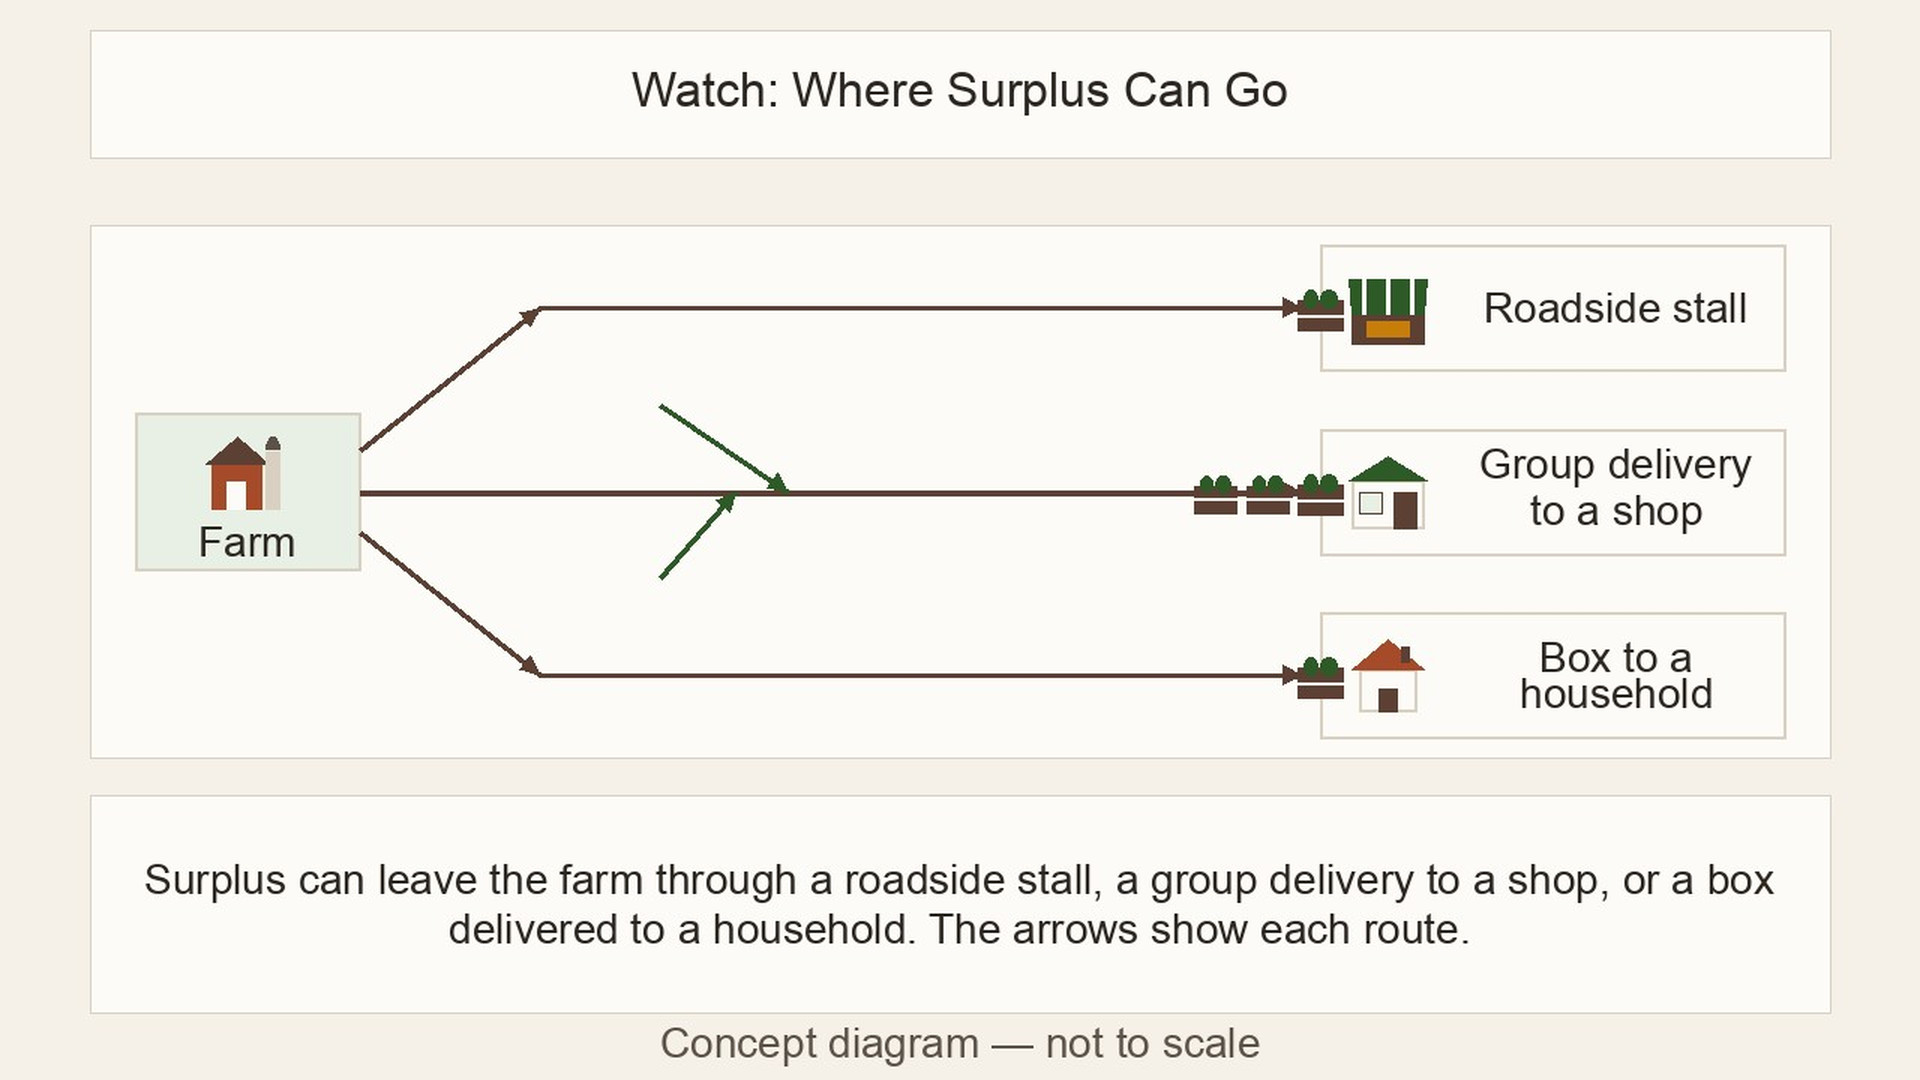
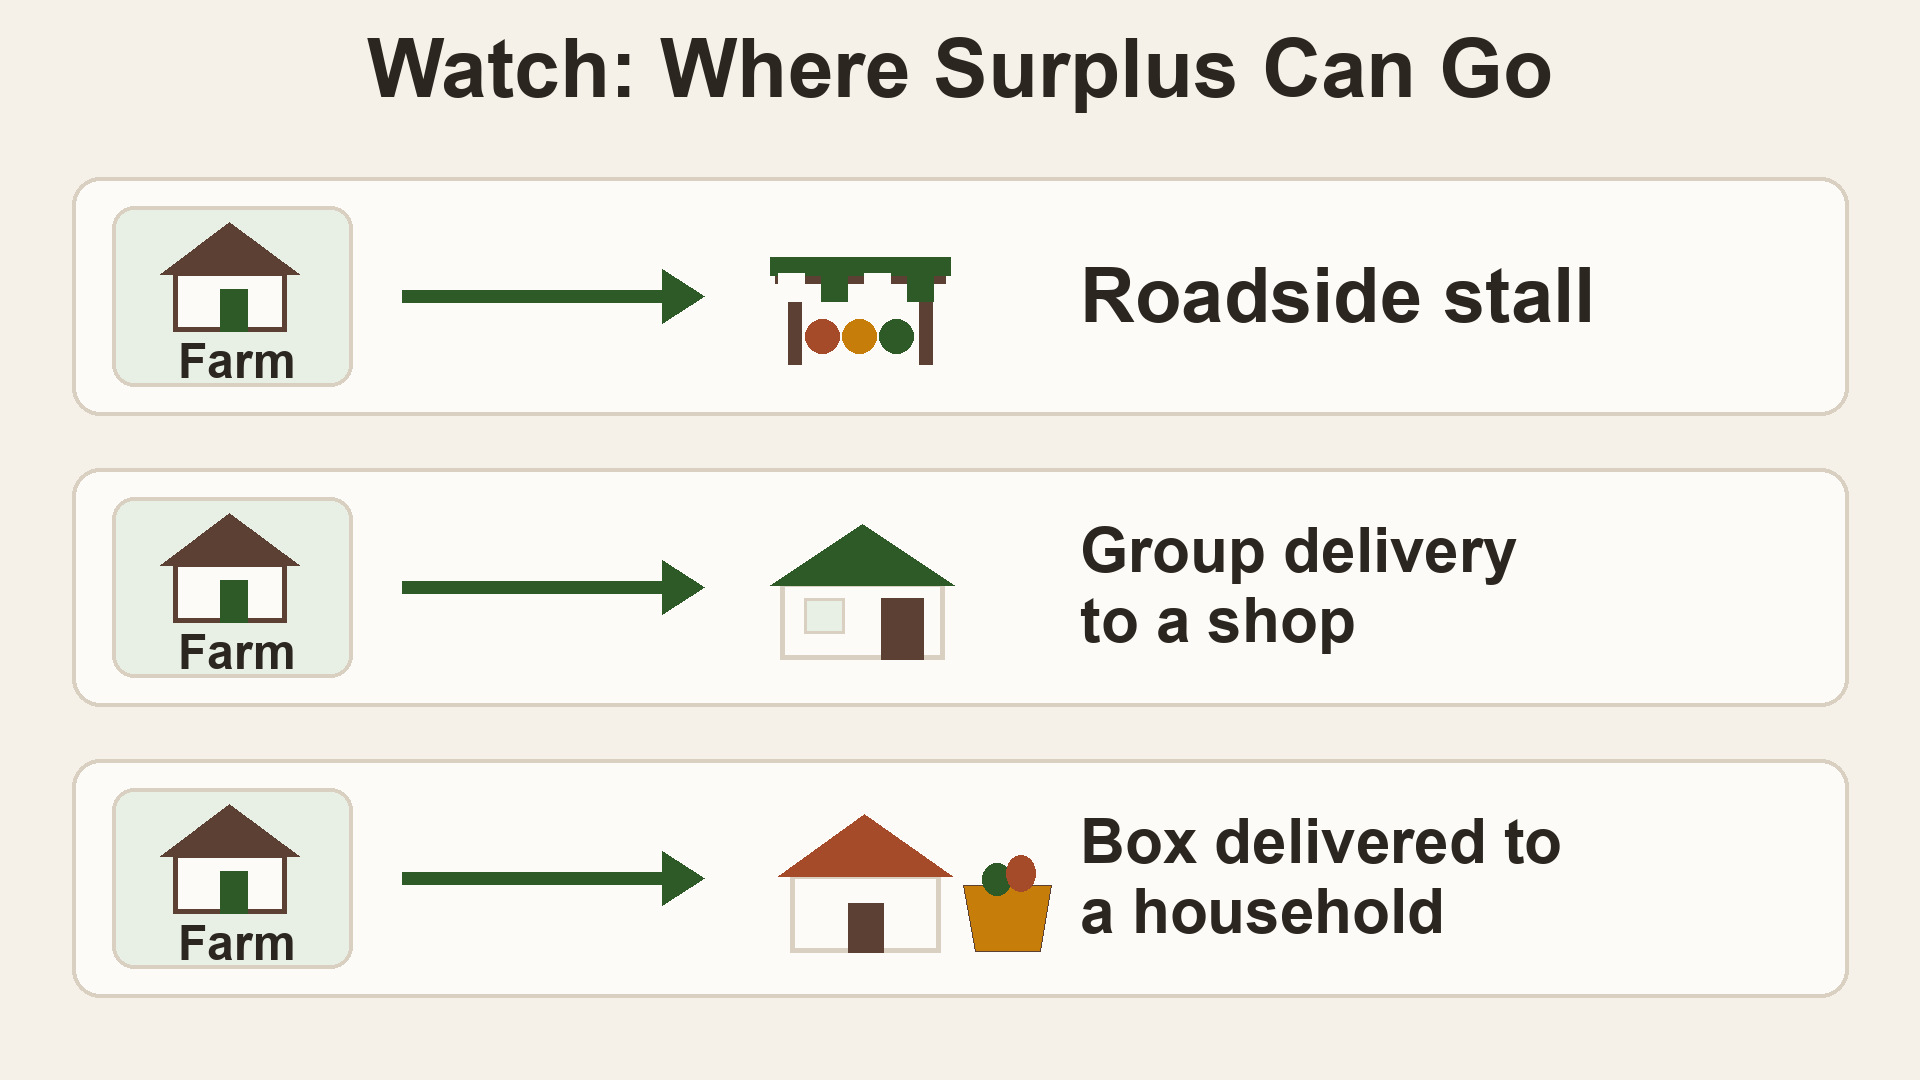
media: clarify Market lesson 2 surplus routes on phones

diff --git a/app/sw.js/route.ts b/app/sw.js/route.ts
@@ -570,6 +570,18 @@ async function migrateHeldWaterSwaleMedia() {
   await cache.put(marker, new Response('Water swale clips held for review'));
 }
 
+// Slide 9's route choices were too small at phone fit; replace only its saved still.
+async function migrateMarketL2RouteStill() {
+  const cache = await caches.open(COURSE_CACHE);
+  const marker = '/course-decks/market-community/.l2-route-still-20260923';
+  if (await cache.match(marker)) return;
+  const obsolete = '/course-decks/market-community/en/slide-09.jpg';
+  for (const request of await cache.keys()) {
+    if (new URL(request.url).pathname === obsolete) await cache.delete(request);
+  }
+  await cache.put(marker, new Response('Market L2 route still replaced'));
+}
+
 // Historical migration from the original drawn bee route to the now-withdrawn composite. Keep its
 // marker for clients crossing that release; the broader migration above retires both generations.
 async function migrateBeeHiveAndBlossomMedia() {
@@ -680,7 +692,7 @@ self.addEventListener('activate', function (event) {
           })
           .map(function (key) { return caches.delete(key); })
       );
-    }).then(migrateGuildNarration).then(migrateStudiesMedia).then(migrateChickenForagingMedia).then(migrateForestLayerMedia).then(migrateSoilObservationMedia).then(migrateForestEstablishmentMedia).then(migrateLandscapeSiteMapNarration).then(migrateForestMulchInfographic).then(migrateForestSheetMulchingMedia).then(migrateVegetableChoiceMedia).then(migrateUnapprovedStudyAnimations).then(migrateBeeHiveAndBlossomMedia).then(migrateGreywaterTeachingMedia).then(migrateWindbreakMedia).then(migrateSoilCoverStills).then(migrateMarketRecordStill).then(migrateFoodForestLayerKeyStill).then(migrateHeldAuthoredStudyAnimations).then(migrateHeldWaterSwaleMedia).then(function () {
+    }).then(migrateGuildNarration).then(migrateStudiesMedia).then(migrateChickenForagingMedia).then(migrateForestLayerMedia).then(migrateSoilObservationMedia).then(migrateForestEstablishmentMedia).then(migrateLandscapeSiteMapNarration).then(migrateForestMulchInfographic).then(migrateForestSheetMulchingMedia).then(migrateVegetableChoiceMedia).then(migrateUnapprovedStudyAnimations).then(migrateBeeHiveAndBlossomMedia).then(migrateGreywaterTeachingMedia).then(migrateWindbreakMedia).then(migrateSoilCoverStills).then(migrateMarketRecordStill).then(migrateFoodForestLayerKeyStill).then(migrateHeldAuthoredStudyAnimations).then(migrateHeldWaterSwaleMedia).then(migrateMarketL2RouteStill).then(function () {
       // Take control of already-open tabs so this version's fetch handler
       // (and therefore network-first HTML) runs without needing a reload first.
       return self.clients.claim();

diff --git a/tests/studies-media-migration.test.ts b/tests/studies-media-migration.test.ts
@@ -68,6 +68,41 @@ test('a saved Food Forest layer key replaces only its old still and preserves na
   assert.equal(await rows.get(replacement.url)!.text(), 'new key');
 });
 
+test('a saved Market route diagram replaces only slide 9 and preserves the rest of the lesson', async () => {
+  const source = readFileSync(new URL('../app/sw.js/route.ts', import.meta.url), 'utf8');
+  const body = source.match(/async function migrateMarketL2RouteStill\(\) \{([\s\S]*?)\n\}/)?.[1];
+  assert.ok(body);
+  assert.match(source, /then\(migrateMarketL2RouteStill\)\.then/);
+
+  const origin = 'https://field.test';
+  const oldStill = new Request(origin + '/course-decks/market-community/en/slide-09.jpg?cached=1');
+  const narration = new Request(origin + '/course-audio/market-community/en/slide-09.mp3');
+  const nextSlide = new Request(origin + '/course-decks/market-community/en/slide-10.jpg');
+  const otherLesson = new Request(origin + '/course-decks/market-community/en/slide-04.jpg');
+  const rows = new Map<string, Response>([
+    [oldStill.url, new Response('tiny route labels')],
+    [narration.url, new Response('saved speech')],
+    [nextSlide.url, new Response('saved')],
+    [otherLesson.url, new Response('saved')],
+  ]);
+  const cache = {
+    match: async (key: string) => rows.get(origin + key),
+    keys: async () => [...rows.keys()].map(url => new Request(url)),
+    delete: async (request: Request) => rows.delete(request.url),
+    put: async (key: string, response: Response) => { rows.set(origin + key, response); },
+  };
+  const run = new Function('caches', 'COURSE_CACHE', 'Response', 'return (async () => {' + body + '})()');
+  await run({ open: async () => cache }, 'imbewu-course-v1', Response);
+  assert.equal(rows.has(oldStill.url), false);
+  for (const request of [narration, nextSlide, otherLesson]) assert.equal(rows.has(request.url), true);
+  assert.doesNotMatch(body, /\bfetch\(/, 'migration must not silently redownload the still');
+
+  const replacement = new Request(origin + '/course-decks/market-community/en/slide-09.jpg');
+  rows.set(replacement.url, new Response('readable route diagram'));
+  await run({ open: async () => cache }, 'imbewu-course-v1', Response);
+  assert.equal(await rows.get(replacement.url)!.text(), 'readable route diagram');
+});
+
 test('updated Studies cannot pair old downloaded speech with corrected teaching; unrelated files survive', async () => {
   const source = readFileSync(new URL('../app/sw.js/route.ts', import.meta.url), 'utf8');
   const body = source.match(/async function migrateStudiesMedia\(\) \{([\s\S]*?)\n\}/)?.[1];

diff --git a/lib/course-asset-sizes.ts b/lib/course-asset-sizes.ts
@@ -464,7 +464,7 @@ export const COURSE_ASSET_SIZES: Readonly<Record<string, number>> = Object.freez
   '/course-decks/market-community/en/slide-06.jpg': 133791,
   '/course-decks/market-community/en/slide-07.jpg': 802371,
   '/course-decks/market-community/en/slide-08.jpg': 110217,
-  '/course-decks/market-community/en/slide-09.jpg': 173209,
+  '/course-decks/market-community/en/slide-09.jpg': 191111,
   '/course-decks/market-community/en/slide-10.jpg': 823629,
   '/course-decks/market-community/en/slide-11.jpg': 136160,
   '/course-decks/market-community/en/slide-12.jpg': 117841,

diff --git a/docs/media/studies-animation-quality/render-market-l2-routes-still.py b/docs/media/studies-animation-quality/render-market-l2-routes-still.py
@@ -1,0 +1,126 @@
+#!/usr/bin/env python3
+"""Recompose Market Gardening L2 slide 9 for a readable phone fit.
+
+The original route names and arrow meaning already exist in the English
+narration. The three equal rows keep those choices legible without implying a
+preferred route, guaranteed sale, price or income.
+"""
+
+from pathlib import Path
+from PIL import Image, ImageDraw, ImageFont
+
+
+ROOT = Path(__file__).resolve().parents[3]
+OUTPUT = ROOT / "public/course-decks/market-community/en/slide-09.jpg"
+WIDTH, HEIGHT = 1920, 1080
+
+CREAM = (245, 241, 232)
+CARD = (253, 251, 247)
+TEXT = (44, 38, 32)
+MUTED = (92, 82, 72)
+FOREST = (45, 90, 39)
+PALE_GREEN = (232, 240, 229)
+SOIL = (92, 64, 51)
+BORDER = (217, 208, 193)
+
+FONT_REGULAR = Path("/System/Library/Fonts/Supplemental/Arial.ttf")
+FONT_BOLD = Path("/System/Library/Fonts/Supplemental/Arial Bold.ttf")
+if not FONT_BOLD.exists():
+    FONT_BOLD = Path("/usr/share/fonts/truetype/dejavu/DejaVuSans-Bold.ttf")
+if not FONT_REGULAR.exists():
+    FONT_REGULAR = Path("/usr/share/fonts/truetype/dejavu/DejaVuSans.ttf")
+
+
+def font(size: int, bold: bool = False) -> ImageFont.FreeTypeFont:
+    return ImageFont.truetype(FONT_BOLD if bold else FONT_REGULAR, size)
+
+
+def centered(draw: ImageDraw.ImageDraw, text: str, y: int, size: int,
+             fill: tuple[int, int, int], bold: bool = False) -> None:
+    f = font(size, bold)
+    left, top, right, bottom = draw.textbbox((0, 0), text, font=f)
+    draw.text(((WIDTH - (right - left)) / 2 - left, y - top), text,
+              font=f, fill=fill)
+
+
+def farm(draw: ImageDraw.ImageDraw, x: int, y: int) -> None:
+    draw.rounded_rectangle((x, y, x + 240, y + 180), radius=22,
+                           fill=PALE_GREEN, outline=BORDER, width=4)
+    draw.rectangle((x + 61, y + 65, x + 174, y + 125), fill=(253, 251, 247),
+                   outline=SOIL, width=5)
+    draw.polygon(((x + 48, y + 68), (x + 117, y + 16), (x + 187, y + 68)),
+                 fill=SOIL)
+    draw.rectangle((x + 108, y + 83, x + 135, y + 125), fill=FOREST)
+    draw.text((x + 66, y + 128), "Farm", font=font(48, True), fill=TEXT)
+
+
+def stall(draw: ImageDraw.ImageDraw, x: int, y: int) -> None:
+    draw.rectangle((x + 5, y + 45, x + 175, y + 58), fill=SOIL)
+    draw.rectangle((x + 18, y + 60, x + 31, y + 139), fill=SOIL)
+    draw.rectangle((x + 149, y + 60, x + 162, y + 139), fill=SOIL)
+    draw.rectangle((x + 0, y + 32, x + 180, y + 50), fill=FOREST)
+    for i in range(4):
+        draw.rectangle((x + 8 + i * 43, y + 48, x + 34 + i * 43, y + 76),
+                       fill=(253, 251, 247) if i % 2 == 0 else FOREST)
+    for i, color in enumerate(((166, 75, 42), (198, 125, 10), FOREST)):
+        draw.ellipse((x + 35 + i * 37, y + 94, x + 69 + i * 37, y + 128),
+                     fill=color)
+
+
+def shop(draw: ImageDraw.ImageDraw, x: int, y: int) -> None:
+    draw.rectangle((x + 10, y + 66, x + 174, y + 143), fill=CARD,
+                   outline=BORDER, width=5)
+    draw.polygon(((x, y + 69), (x + 92, y + 8), (x + 184, y + 69)), fill=FOREST)
+    draw.rectangle((x + 34, y + 82, x + 74, y + 117), fill=PALE_GREEN,
+                   outline=BORDER, width=3)
+    draw.rectangle((x + 111, y + 82, x + 153, y + 143), fill=SOIL)
+
+
+def household(draw: ImageDraw.ImageDraw, x: int, y: int) -> None:
+    draw.rectangle((x + 20, y + 67, x + 170, y + 145), fill=CARD,
+                   outline=BORDER, width=5)
+    draw.polygon(((x + 8, y + 69), (x + 94, y + 7), (x + 182, y + 69)),
+                 fill=(166, 75, 42))
+    draw.rectangle((x + 78, y + 96, x + 113, y + 145), fill=SOIL)
+    # Open box with produce marks: the source narration names a box to a household.
+    bx, by = x + 193, y + 78
+    draw.polygon(((bx, by), (bx + 88, by), (bx + 77, by + 66), (bx + 12, by + 66)),
+                 fill=(198, 125, 10), outline=SOIL)
+    draw.ellipse((bx + 19, by - 22, bx + 48, by + 10), fill=FOREST)
+    draw.ellipse((bx + 43, by - 30, bx + 72, by + 6), fill=(166, 75, 42))
+
+
+def arrow(draw: ImageDraw.ImageDraw, x1: int, y: int, x2: int) -> None:
+    draw.line((x1, y, x2 - 34, y), fill=FOREST, width=13)
+    draw.polygon(((x2, y), (x2 - 42, y - 27), (x2 - 42, y + 27)), fill=FOREST)
+
+
+def main() -> None:
+    image = Image.new("RGB", (WIDTH, HEIGHT), CREAM)
+    draw = ImageDraw.Draw(image)
+
+    centered(draw, "Watch: Where Surplus Can Go", 37, 82, TEXT, bold=True)
+
+    routes = (
+        ("Roadside stall", stall),
+        ("Group delivery\nto a shop", shop),
+        ("Box delivered to\na household", household),
+    )
+    row_top = (177, 468, 759)
+    for (label, destination), top in zip(routes, row_top):
+        draw.rounded_rectangle((72, top, 1848, top + 238), radius=28,
+                               fill=CARD, outline=BORDER, width=4)
+        farm(draw, 112, top + 29)
+        arrow(draw, 402, top + 119, 704)
+        destination(draw, 770, top + 48)
+        if "\n" in label:
+            draw.multiline_text((1080, top + 47), label, font=font(62, True),
+                                fill=TEXT, spacing=13)
+        else:
+            draw.text((1080, top + 76), label, font=font(76, True), fill=TEXT)
+
+    image.save(OUTPUT, format="JPEG", quality=93, subsampling=0, optimize=True)
+
+
+if __name__ == "__main__":
+    main()

diff --git a/docs/studies-review-2026-09-20/PROGRAMME-MEDIA-MATRIX.md b/docs/studies-review-2026-09-20/PROGRAMME-MEDIA-MATRIX.md
@@ -7,7 +7,7 @@ Current player state follows `lib/course-deck.ts` and `animationUrls()`. A regis
 | # | Module / lesson / slide | Slide title | Current player | Registered video path (exact) | Held local source / status and reason |
 |---:|---|---|---|---|---|
 | 1 | Market Gardening & Community · `market-community-l1` · slide 4 | Watch: What the Farm Record Shows | Still only ([slide still](../../public/course-decks/market-community/en/slide-04.jpg)); [L1 check and replacement](../media/studies-animation-quality/market-l1-current-lesson-check.md) | — | The static four-destination still was inspected in the deployed 390px player and reopened with English audio from the 12.8 MB offline pack; its old cached predecessor was selectively invalidated. The withdrawn locally drawn film remains outside the player pending Rory's visual clearance. |
-| 2 | Market Gardening & Community · `market-community-l2` · slide 9 | Watch: Where Surplus Can Go | Still only ([slide still](../../public/course-decks/market-community/en/slide-09.jpg)); [current L2 check](../media/studies-animation-quality/market-l2-current-lesson-check.md) | — | Deployed 390px and saved-pack offline still/audio passed. Route labels are small at phone fit; full-size link present. The withdrawn locally drawn film remains outside the player pending Rory's visual clearance. |
+| 2 | Market Gardening & Community · `market-community-l2` · slide 9 | Watch: Where Surplus Can Go | Still only ([slide still](../../public/course-decks/market-community/en/slide-09.jpg)); [L2 check](../media/studies-animation-quality/market-l2-current-lesson-check.md) | — | The old still/audio passed deployed 390px and saved-pack offline checks. A static replacement with three large narration-matched route names is locally inspected; deployed/offline replacement check is pending. The withdrawn locally drawn film remains outside the player pending Rory's visual clearance. |
 | 3 | Market Gardening & Community · `market-community-l3` · slide 14 | Watch: How Neighbours Strengthen a Harvest | Still only ([slide still](../../public/course-decks/market-community/en/slide-14.jpg)); [current L3 check](../media/studies-animation-quality/market-l3-current-lesson-check.md) | — | The existing network still/English audio remain. Small labels have a full-size link. The withdrawn locally drawn movie remains outside the player pending Rory's visual clearance. |
 | 4 | Market Gardening & Community · `market-community-l3` · slide 15 | Save Seed Together | Video registered; [current L3 check](../media/studies-animation-quality/market-l3-current-lesson-check.md) | [public/course-animations/market-community/flow-seed-sharing.mp4](../../public/course-animations/market-community/flow-seed-sharing.mp4) | The eight-second Flow handover played at 390px and offline. It does not verify identity, viability or legal permission for any seed variety; protected seed-sharing text needs a source-backed qualification. |
 | 5 | Small Livestock Integration · `small-livestock-l1` · slide 4 | Watch: Hens Foraging After Harvest | Video registered (review pending) | [public/course-animations/small-livestock/hens-pecking-pexels-5563939.mp4](../../public/course-animations/small-livestock/hens-pecking-pexels-5563939.mp4) | —; not a held slot. |

diff --git a/docs/media/studies-animation-quality/COVERAGE.md b/docs/media/studies-animation-quality/COVERAGE.md
@@ -65,7 +65,7 @@ physical-mechanism review; neither is a reason to place another order.
 | # | Module | Lesson ID | Slide | Title | Registered `src` | Planned treatment / hold |
 | ---: | --- | --- | ---: | --- | --- | --- |
 | 1 | Market Gardening & Community | market-community-l1 | 4 | Watch: What the Farm Record Shows | — | [L1 check and static still](market-l1-current-lesson-check.md): the large-label four-destination replacement was inspected in the deployed 390px player and loaded with English MP3 from the 12.8 MB pack offline. One-time migration removed only the old cached still; the locally drawn film remains held pending Rory's visual clearance. No Flow request. |
-| 2 | Market Gardening & Community | market-community-l2 | 9 | Watch: Where Surplus Can Go | — | [Current L2 check](market-l2-current-lesson-check.md): still/audio reached the end of the deployed 390px lesson and reopened from the saved pack offline. The route labels are small at phone fit; full-size link present. The locally drawn film remains held pending Rory's visual clearance, with no justified new Flow prompt. |
+| 2 | Market Gardening & Community | market-community-l2 | 9 | Watch: Where Surplus Can Go | — | [L2 check](market-l2-current-lesson-check.md): the old still/audio reached the end of the deployed 390px lesson and reopened offline. A static replacement with three large, narration-matched route names is locally inspected; deployed/offline replacement check is pending. The locally drawn film remains held pending Rory's visual clearance, with no justified new Flow prompt. |
 | 3 | Market Gardening & Community | market-community-l3 | 14 | Watch: How Neighbours Strengthen a Harvest | — | [Current L3 check](market-l3-current-lesson-check.md): still-only network view and English audio; the locally drawn film remains held pending Rory's visual clearance. Small labels use the full-size still link. |
 | 4 | Market Gardening & Community | market-community-l3 | 15 | Save Seed Together | `flow-seed-sharing` | [Current L3 check](market-l3-current-lesson-check.md): existing eight-second Flow handover played in full motion at 390px and from the saved offline pack. It cannot verify seed identity, viability or legal permission. Generic seed-sharing text has a protected, source-backed rights qualification pending. |
 | 5 | Small Livestock Integration | small-livestock-l1 | 4 | Watch: Hens Foraging After Harvest | `hens-pecking-pexels-5563939` | Real-footage replacement candidate: natural pecking among cut stems; no enclosure or before/after harvest claim. Preview and Rory review pending. |

diff --git a/docs/media/studies-animation-quality/market-l2-current-lesson-check.md b/docs/media/studies-animation-quality/market-l2-current-lesson-check.md
@@ -1,6 +1,7 @@
 # Market Gardening L2 English lesson check — 23 September 2026
 
-**Status:** Retain the five existing stills and English audio. No new Flow
+**Status:** A static slide-9 readability revision is prepared for preview;
+the other four stills and English audio remain. No new Flow
 request, local animation registration, protected lesson/quiz/narration edit,
 species, farming figure or `PLAN_VERSION` change was made. This is technical
 and source review, not Rory, farmer, learner, practitioner or fluent isiZulu
@@ -27,6 +28,27 @@ Offline badge; L2 reopened, slide 9's still loaded at `naturalWidth=1920`,
 and its English MP3 advanced at `readyState=4`. Playback was stopped and
 network restored. This is one browser cache path, not physical-phone or
 listening acceptance.
+
+## Static slide 9 revision — pending deployed check
+
+The existing route still had three small labels and a long explanatory
+paragraph that could not be read at phone fit. The replacement uses three
+equal, separate farm-to-destination rows. Its labels repeat the existing
+English narration exactly: Roadside stall; Group delivery to a shop; Box
+delivered to a household. Each row retains a farm origin and outward arrow.
+No row is preferred, no price or income is promised, and the choices remain
+conditional on supply, demand, costs and local rules in the unchanged lesson.
+
+`docs/media/studies-animation-quality/render-market-l2-routes-still.py`
+deterministically renders the 1920 × 1080 JPEG. The full image and a 270px
+copy approximating the player's picture width were inspected; all three labels
+are legible without overlapping the icons. The first candidate had an
+overlapping box and Farm labels outside their cards; those were corrected
+before this file was considered ready. The final JPEG is 191,111 bytes,
[1 lines of base64/hex data omitted]
+A one-time service-worker migration removes only the prior saved slide-9 JPEG,
+leaving English MP3s and other Market stills in the pack. Deployed phone,
+offline replacement and human visual review remain to be checked.
 
 ## Teaching and Flow decision
 
